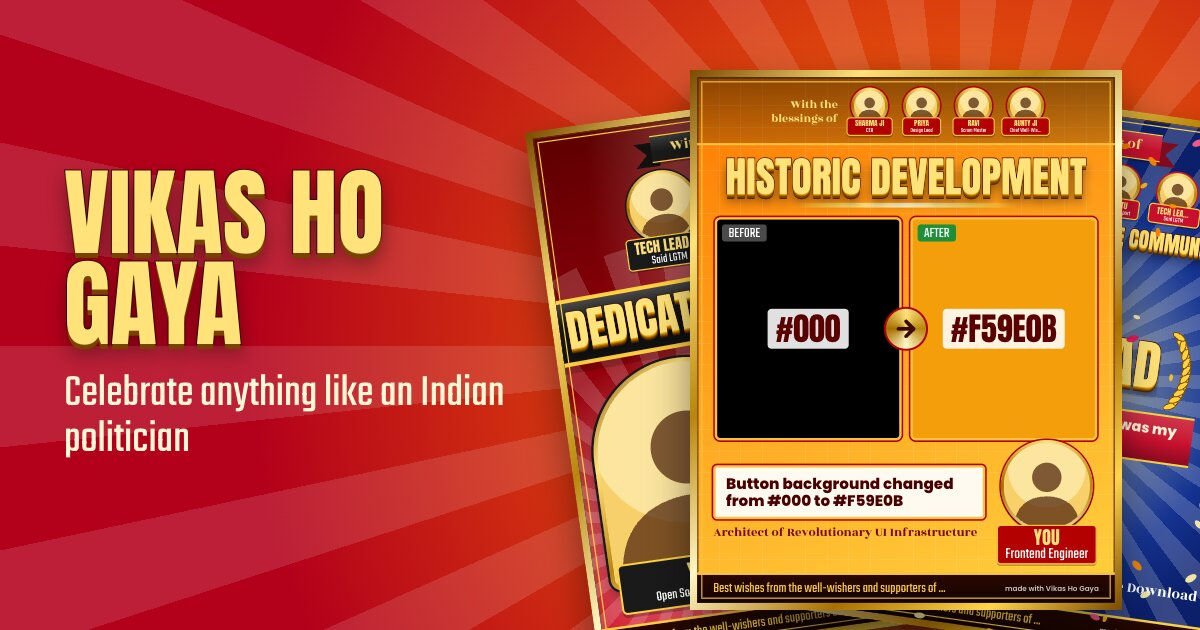
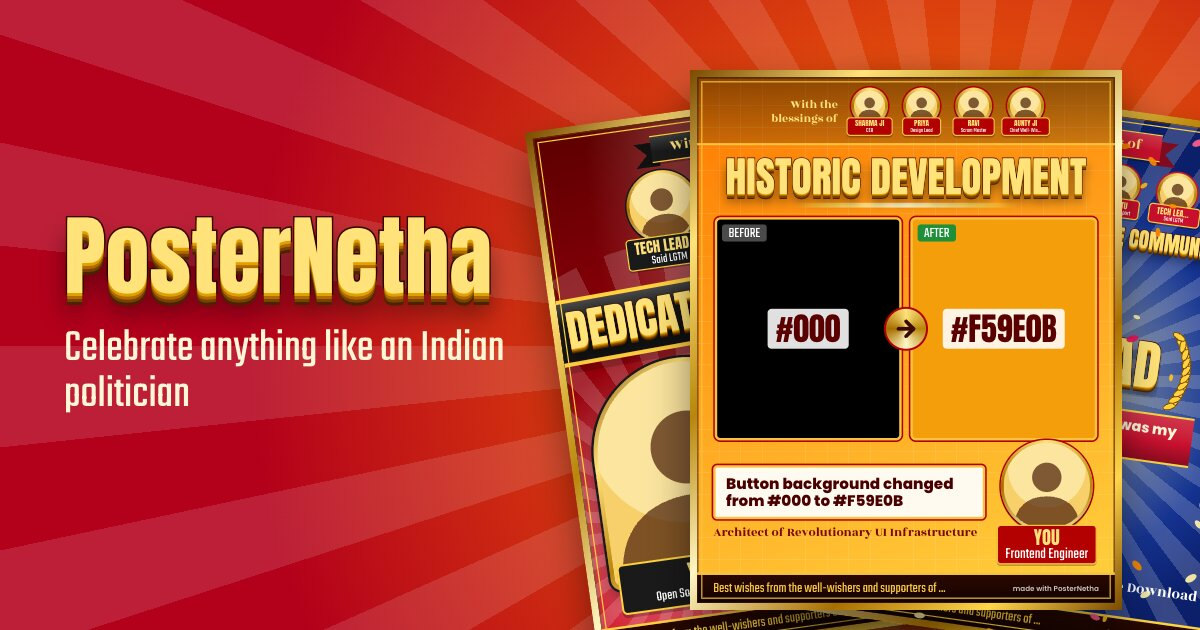
update name

Changed region(s): [[0.0308, 0.2413, 0.4317, 0.7238], [0.8633, 0.9048, 0.8942, 0.9349]]

diff --git a/src/components/editor/Editor.tsx b/src/components/editor/Editor.tsx
@@ -28,7 +28,7 @@ export function Editor() {
     // only the inputs column scrolls.
     <div className="relative mx-auto flex h-dvh w-full max-w-6xl flex-col overflow-hidden">
       <header className="flex flex-none items-center justify-between gap-3 border-b border-[#ecdcb4] px-4 py-3">
-        <Link href="/" className="inline-flex items-center gap-1.5 font-display text-2xl uppercase text-[#7a0a0a]">
+        <Link href="/" className="inline-flex items-center gap-1.5 font-display text-2xl text-[#7a0a0a]">
           <ArrowLeft size={20} aria-hidden />
           {SITE_NAME}
         </Link>

diff --git a/src/app/page.tsx b/src/app/page.tsx
@@ -40,7 +40,7 @@ export default function Home() {
   return (
     <div className="flex flex-1 flex-col">
       <header className="mx-auto flex w-full max-w-6xl items-center justify-between px-4 py-4">
-        <span className="font-display text-2xl uppercase text-[#7a0a0a]">{SITE_NAME}</span>
+        <span className="font-display text-2xl text-[#7a0a0a]">{SITE_NAME}</span>
         <nav className="flex items-center gap-1" aria-label="Social">
           <a href={SOCIAL.x} target="_blank" rel="noopener noreferrer" aria-label="X (Twitter)" className={socialCls}>
             <XLogo />

diff --git a/src/lib/config.ts b/src/lib/config.ts
@@ -1,4 +1,4 @@
-export const SITE_NAME = "Vikas Ho Gaya";
+export const SITE_NAME = "PosterNetha";
 export const TAGLINE = "Celebrate anything like an Indian politician";
 export const DESCRIPTION =
   "Turn your tiniest win into a giant, over-the-top political-style flex banner. Parody. Photos never leave your device.";

diff --git a/plan/PLAN.md b/plan/PLAN.md
@@ -1,6 +1,6 @@
 # PLAN.md: "Celebrate Anything Like an Indian Politician" Poster Generator
 
-Working name: **Vikas Ho Gaya** (change it in one place: `lib/config.ts`).
+Name: **PosterNetha** (written as one word; change it in one place: `src/lib/config.ts`). Renamed from the working name "Vikas Ho Gaya", which read as a jab at one party's slogans.
 Goal: a fun, shareable, client-side web app. A tiny achievement goes in, a giant over-the-top political-style flex banner comes out, ready to post on X/Instagram.
 Success metric: someone sees a generated poster and immediately sends it to a friend.
 

diff --git a/CLAUDE.md b/CLAUDE.md
@@ -1,6 +1,6 @@
 @AGENTS.md
 
-# Project: Vikas Ho Gaya (see plan/PLAN.md)
+# Project: PosterNetha (see plan/PLAN.md)
 
 Build phase by phase per `plan/PLAN.md`. Package manager: **bun**. App code in `src/`, import via `@/…`.
 
